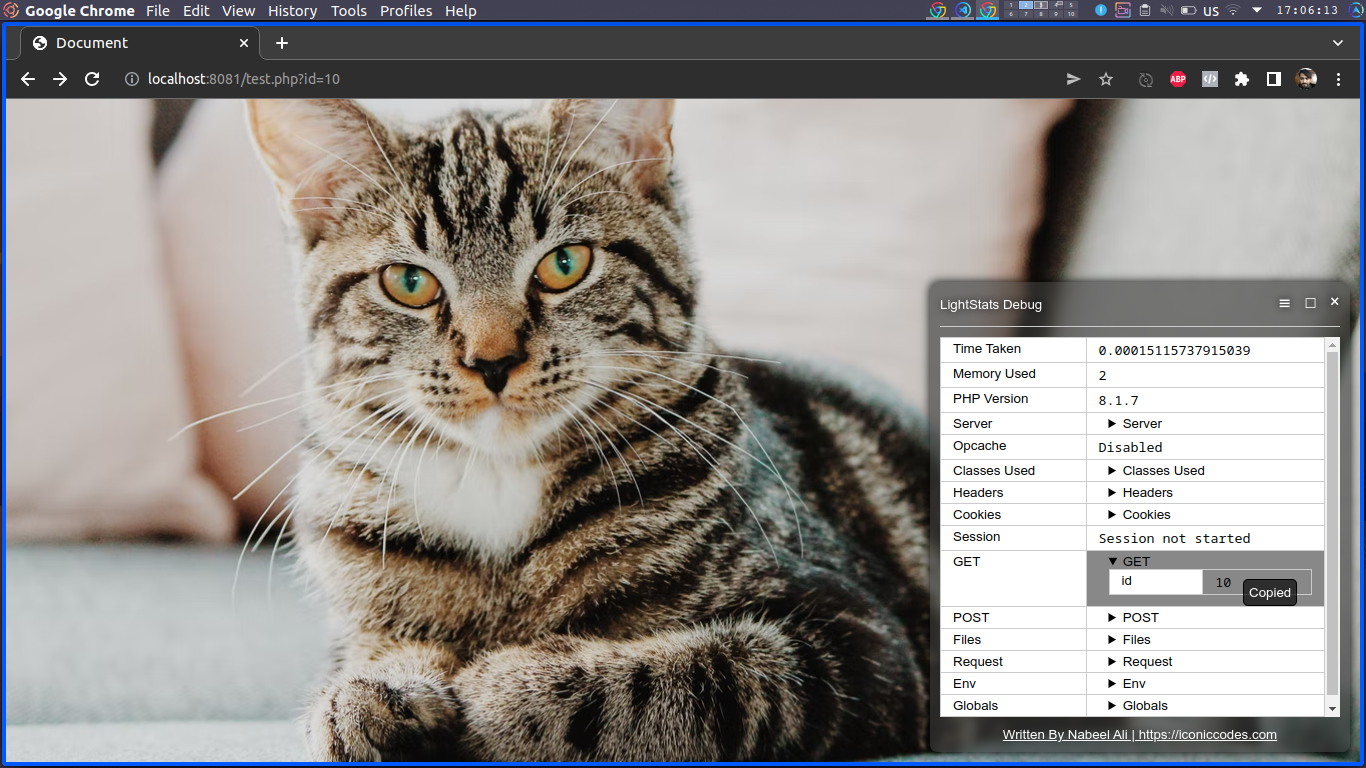
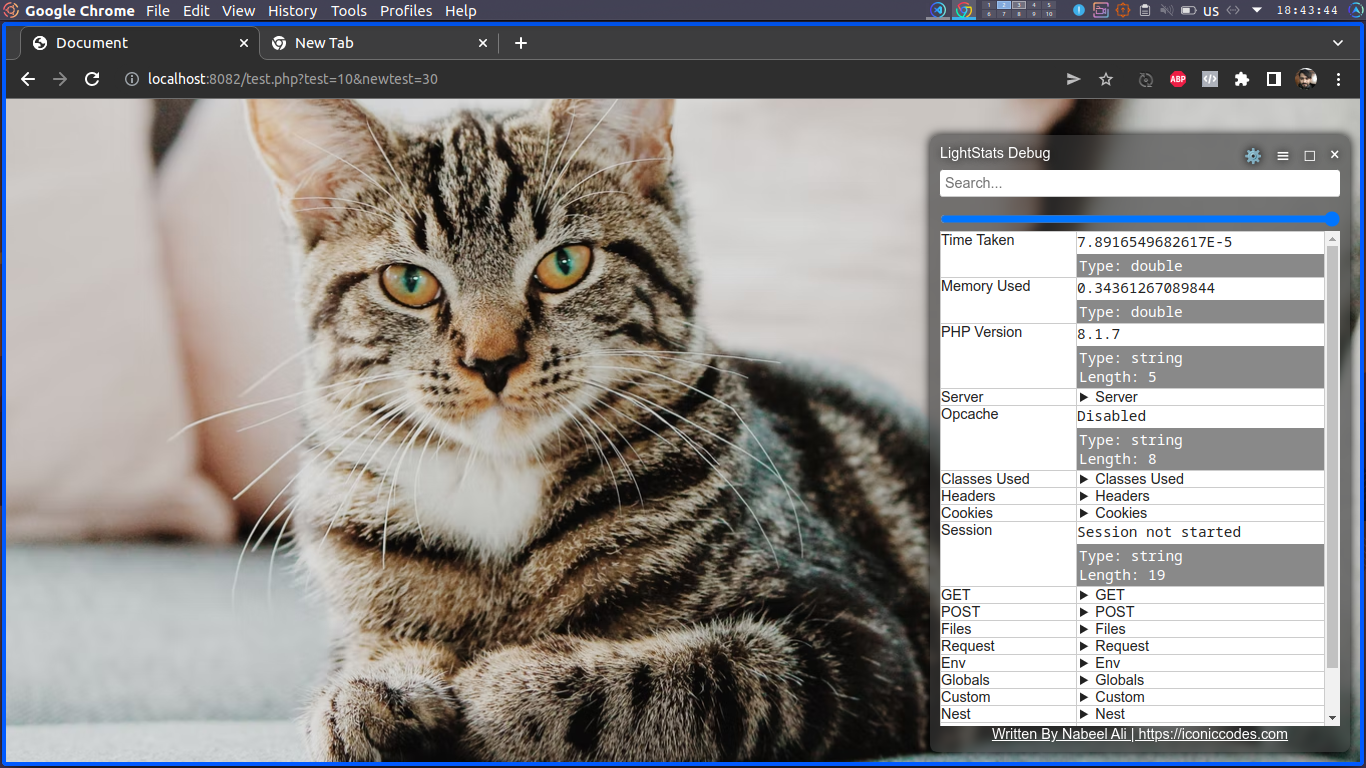
Added Search and Transparency

diff --git a/src/view.html b/src/view.html
@@ -1,14 +1,55 @@
 <div id="ls__container">
-    <div id="ls__header"><span>LightStats Debug</span>
-        <div class="ls__controls"><span title="Toggle Types" class="ls__control" id="ls__types__toggle">⚙ </span><span title="Minimize" class="ls__control" id="ls__control__toggle">☰ </span><span title="FullScreen" class="ls__control" id="ls__control__max">☐ </span><span title="Close" class="ls__control" id="ls__control__close">&times;</span></div>
+    <div id="ls__header">
+        <div class="ls__header_row" id="ls__header_first_row">
+            <div>LightStats Debug</div>
+            <div class="ls__controls"><span title="Toggle Types" class="ls__control" id="ls__types__toggle">⚙ </span><span title="Minimize" class="ls__control" id="ls__control__toggle">☰ </span><span title="FullScreen" class="ls__control" id="ls__control__max">☐ </span><span title="Close" class="ls__control" id="ls__control__close">&times;</span></div>
+        </div>
+        <div class="ls__header_row">
+            <input type="text" id="ls__searchbar__input" placeholder="Search...">
+        </div>
+        <!-- range for setting transparency 5 to 100 -->
+        <div class="ls__header_row">
+            <input type="range"  min="5" max="100" value="100" id="ls__transparency__range">
+        </div>
+        
     </div>
-    <!-- <div class="ls__separator"></div> -->
+
     <div id="ls__body">
         <table id="ls__table"> <?php echo $html ?> </table>
+
     </div>
     <div id="ls__footer"><a href="https://iconiccodes.com">Written By Nabeel Ali | https://iconiccodes.com</a></div>
 </div>
+
 <style>
+    .ls__header_row {
+        display: flex;
+        flex: 1;
+        width: 100%;
+    }
+    
+    /* transparncy range */
+    #ls__transparency__range {
+        width: 100%;
+        margin-top: 10px;
+    }
+
+    #ls__searchbar__input {
+        width: 99.5%;
+        border: 0;
+        border-radius: 3px;
+        padding: 5px;
+        font-size: 14px;
+        outline: none;
+        border-bottom: 1px solid #ccc;
+        margin-bottom: 4px;
+    }
+
+    #ls__searchbar__input:focus {
+        border-bottom: 1px solid #000;
+        box-shadow: 0 1px 1px rgba(0, 0, 0, 0.075) inset, 0 0 8px rgba(102, 175, 233, 0.6);
+    }
+
     .ls__type__label {
         background-color: #22222288;
         color: #fff;
@@ -21,7 +62,9 @@
     #ls__container * {
         font-size: 0.9rem;
     }
+
     #ls__container {
+        color: #222;
         display: flex;
         flex-direction: column;
         font-size: .8rem;
@@ -31,18 +74,20 @@
         right: 10px;
         border-radius: 8px;
         width: 400px;
-        height: 450px;
+        height: auto;
         background-color: #39393999;
         backdrop-filter: blur(4px);
         padding: 10px;
         box-shadow: 0 0 10px #000;
         z-index: 99999;
-        min-height: 60px
+        min-height: 60px;
+        max-height: 90vh;
     }
 
     #ls__container pre {
         margin-bottom: 0;
     }
+
     .ls__control {
         margin-left: 10px;
         cursor: pointer
@@ -74,12 +119,17 @@
         text-shadow: 0 0 10px #000;
         color: #fff;
         align-items: center;
-        cursor: nwse-resize;
         margin-bottom: 4px;
+        flex-direction: column;
+
+    }
+
+    #ls__header_first_row {
+        cursor: nwse-resize;
+
     }
 
     #ls__footer {
-        margin-top: 10px;
         text-align: center
     }
 
@@ -109,6 +159,8 @@
     }
 </style>
 <script>
+    // fist row
+    var ls__header_first_row = document.getElementById('ls__header_first_row');
     var ls__container = document.getElementById("ls__container"),
         ls__control__toggle = document.getElementById("ls__control__toggle"),
         ls__control__max = document.getElementById("ls__control__max"),
@@ -116,16 +168,22 @@
         ls__body = document.getElementById("ls__body"),
         ls__table = document.getElementById("ls__table"),
         ls__types__label = document.getElementById("ls__types__toggle");
+        // ls searc
+        ls__searchbar__input = document.getElementById("ls__searchbar__input");
     ls__types__label.addEventListener("click", function() {
         for (var e = document.getElementsByClassName("ls__type__label"), t = 0; t < e.length; t++) e[t].style.display = "none" == e[t].style.display ? "block" : "none"
-    }), ls__control__toggle.addEventListener("click", function() {
+    });
+
+    ls__control__toggle.addEventListener("click", function() {
+        ls__searchbar__input.style.display = "none" == ls__searchbar__input.style.display ? "block" : "none";
         ls__container.style.bottom = "10px;", ls__container.style.right = "10px;", document.fullscreenElement && document.exitFullscreen(), "none" == ls__body.style.display ? ls__body.style.display = "block" : (ls__body.style.display = "none", ls__container.style.height = "auto")
     }), ls__control__max.addEventListener("click", function() {
         ls__body.style.display = "block", ls__container.requestFullscreen ? document.fullscreenElement ? document.exitFullscreen() : ls__container.requestFullscreen() : ls__container.webkitRequestFullscreen ? document.webkitFullscreenElement ? document.webkitExitFullscreen() : ls__container.webkitRequestFullscreen() : ls__container.mozRequestFullScreen ? document.mozFullScreenElement ? document.mozCancelFullScreen() : ls__container.mozRequestFullScreen() : ls__container.msRequestFullscreen && (document.msFullscreenElement ? document.msExitFullscreen() : ls__container.msRequestFullscreen())
     }), ls__control__close.addEventListener("click", function() {
         ls__container.remove()
     });
-    var ls__container_resize = document.getElementById("ls__header"),
+
+    var ls__container_resize = document.getElementById("ls__header_first_row"),
         ls__container_resize_x = 0,
         ls__container_resize_y = 0,
         ls__container_resize_width = 0,
@@ -148,4 +206,34 @@
             document.body.removeChild(n)
         }, 1e3)
     })
+
+    // on change of #ls__searchbar__input filter table data
+    // enable searching in detail tags too. and if element in detail tag, expand it
+
+    ls__searchbar__input.addEventListener("input", function() {
+        var search_term = ls__searchbar__input.value.toLowerCase();
+        var tr = document.getElementsByTagName("tr");
+        for (var i = 0; i < tr.length; i++) {
+            var td = tr[i].getElementsByTagName("td");
+            for (var j = 0; j < td.length; j++) {
+                var txtValue = td[j].textContent || td[j].innerText;
+                if (txtValue.toLowerCase().indexOf(search_term) > -1) {
+                    tr[i].style.display = "";
+                    break;
+                } else {
+                    tr[i].style.display = "none";
+                }
+            }
+        }
+    });
+
+    var ls__transparency__range = document.getElementById("ls__transparency__range");
+
+    ls__transparency__range.addEventListener("input", function() {
+        var opacity = ls__transparency__range.value;
+        ls__container.style.opacity = opacity / 100;
+    });
+
+
+    
 </script>

diff --git a/src/view.php b/src/view.php
@@ -1,0 +1,1 @@
+<div id="ls__container"><div id="ls__header"><div class="ls__header_row" id="ls__header_first_row"><div>LightStats Debug</div><div class="ls__controls"><span title="Toggle Types" class="ls__control" id="ls__types__toggle">⚙ </span><span title="Minimize" class="ls__control" id="ls__control__toggle">☰ </span><span title="FullScreen" class="ls__control" id="ls__control__max">☐ </span><span title="Close" class="ls__control" id="ls__control__close">&times;</span></div></div><div class="ls__header_row"><input type="text" id="ls__searchbar__input" placeholder="Search..."></div><!-- range for setting transparency 5 to 100 --><div class="ls__header_row"><input type="range" min="5" max="100" value="100" id="ls__transparency__range"></div></div><div id="ls__body"><table id="ls__table"> <?php echo $html ?> </table></div><div id="ls__footer"><a href="https://iconiccodes.com">Written By Nabeel Ali | https://iconiccodes.com</a></div></div><style>.ls__header_row{display:flex;flex:1;width:100%}#ls__transparency__range{width:100%;margin-top:10px}#ls__searchbar__input{width:99.5%;border:0;border-radius:3px;padding:5px;font-size:14px;outline:0;border-bottom:1px solid #ccc;margin-bottom:4px}#ls__searchbar__input:focus{border-bottom:1px solid #000;box-shadow:0 1px 1px rgba(0,0,0,.075) inset,0 0 8px rgba(102,175,233,.6)}.ls__type__label{background-color:#22222288;color:#fff;padding:2px;font-size:.8rem;margin-top:3px;font-family:monospace}#ls__container *{font-size:.9rem}#ls__container{color:#222;display:flex;flex-direction:column;font-size:.8rem;font-family:sans-serif;position:fixed;bottom:10px;right:10px;border-radius:8px;width:400px;height:auto;background-color:#39393999;backdrop-filter:blur(4px);padding:10px;box-shadow:0 0 10px #000;z-index:99999;min-height:60px;max-height:90vh}#ls__container pre{margin-bottom:0}.ls__control{margin-left:10px;cursor:pointer}#ls__control__close{font-size:18px}.ls__controls{margin-left:auto}#ls__body{flex:1;overflow:auto;background-color:#fff}.ls__separator{height:1px;background-color:#ccc;margin:10px 0}#ls__header{width:100%;display:flex;text-shadow:0 0 10px #000;color:#fff;align-items:center;margin-bottom:4px;flex-direction:column}#ls__header_first_row{cursor:nwse-resize}#ls__footer{text-align:center}#ls__footer a{color:#fff}#ls__container table{border-collapse:collapse;width:100%;border-collapse:collapse;border-spacing:0;font-family:sans-serif;background-color:#fff;margin-bottom:8px}#ls__table td{border:1px solid #ccc;cursor:pointer;vertical-align:top}#ls__table td:hover{background-color:#888}</style><script>var ls__header_first_row=document.getElementById("ls__header_first_row"),ls__container=document.getElementById("ls__container"),ls__control__toggle=document.getElementById("ls__control__toggle"),ls__control__max=document.getElementById("ls__control__max"),ls__control__close=document.getElementById("ls__control__close"),ls__body=document.getElementById("ls__body"),ls__table=document.getElementById("ls__table"),ls__types__label=document.getElementById("ls__types__toggle");ls__searchbar__input=document.getElementById("ls__searchbar__input"),ls__types__label.addEventListener("click",function(){for(var e=document.getElementsByClassName("ls__type__label"),t=0;t<e.length;t++)e[t].style.display="none"==e[t].style.display?"block":"none"}),ls__control__toggle.addEventListener("click",function(){ls__searchbar__input.style.display="none"==ls__searchbar__input.style.display?"block":"none",ls__container.style.bottom="10px;",ls__container.style.right="10px;",document.fullscreenElement&&document.exitFullscreen(),"none"==ls__body.style.display?ls__body.style.display="block":(ls__body.style.display="none",ls__container.style.height="auto")}),ls__control__max.addEventListener("click",function(){ls__body.style.display="block",ls__container.requestFullscreen?document.fullscreenElement?document.exitFullscreen():ls__container.requestFullscreen():ls__container.webkitRequestFullscreen?document.webkitFullscreenElement?document.webkitExitFullscreen():ls__container.webkitRequestFullscreen():ls__container.mozRequestFullScreen?document.mozFullScreenElement?document.mozCancelFullScreen():ls__container.mozRequestFullScreen():ls__container.msRequestFullscreen&&(document.msFullscreenElement?document.msExitFullscreen():ls__container.msRequestFullscreen())}),ls__control__close.addEventListener("click",function(){ls__container.remove()});var ls__container_resize=document.getElementById("ls__header_first_row"),ls__container_resize_x=0,ls__container_resize_y=0,ls__container_resize_width=0,ls__container_resize_height=0;ls__container_resize.addEventListener("mousedown",function(e){ls__container_resize_x=e.clientX,ls__container_resize_y=e.clientY,ls__container_resize_width=ls__container.offsetWidth,ls__container_resize_height=ls__container.offsetHeight}),document.addEventListener("mousemove",function(e){if(ls__container_resize_x&&ls__container_resize_y){var t=e.clientX-ls__container_resize_x,n=e.clientY-ls__container_resize_y;t*=-1,n*=-1,ls__container.style.width=ls__container_resize_width+t+"px",ls__container.style.height=ls__container_resize_height+n+"px",ls__body.style.display="block"}}),document.addEventListener("mouseup",function(e){ls__container_resize_x=0,ls__container_resize_y=0,ls__container_resize_width=0,ls__container_resize_height=0}),ls__table.addEventListener("dblclick",function(e){var t=e.target.innerText;navigator.clipboard.writeText(t),console.log("Copied: ",t);var n=document.createElement("div");n.style.position="absolute",n.style.top=e.clientY+"px",n.style.left=e.clientX+"px",n.style.backgroundColor="#fff",n.style.padding="5px",n.style.borderRadius="5px",n.style.fontSize="10pt",n.style.fontFamily="sans-serif",n.style.color="#fff",n.style.textAlign="center",n.style.backgroundColor="#000000aa",n.style.border="1px solid #000",n.innerText="Copied",n.style.zIndex=199999,document.body.appendChild(n),setTimeout(function(){document.body.removeChild(n)},1e3)}),ls__searchbar__input.addEventListener("input",function(){for(var e=ls__searchbar__input.value.toLowerCase(),t=document.getElementsByTagName("tr"),n=0;n<t.length;n++)for(var _=t[n].getElementsByTagName("td"),l=0;l<_.length;l++){var s=_[l].textContent||_[l].innerText;if(-1<s.toLowerCase().indexOf(e)){t[n].style.display="";break}t[n].style.display="none"}});var ls__transparency__range=document.getElementById("ls__transparency__range");ls__transparency__range.addEventListener("input",function(){var e=ls__transparency__range.value;ls__container.style.opacity=e/100})</script>

diff --git a/src/LightStats.php b/src/LightStats.php
@@ -80,7 +80,7 @@ class LightStats {
             $html .= '</td></tr>';
         }
         
-        include __DIR__ . "/view.min.php";
+        include __DIR__ . "/view.php";
     }
 
     public function getStatsAsDetailsTag($stats) {

diff --git a/README.md b/README.md
@@ -2,7 +2,7 @@
 
 # LightStats
 
-An easy to use request inspector, debugger for PHP.
+An easy to use request inspector, debugger for PHP with ability to search.
 
 ![LightStats Screenshot](./docs/ls.png)
 
@@ -21,8 +21,11 @@ Email: [mail2nabeelali@gmail.com](mailto:mail2nabeelali@gmail.com)
 * Fullscreen view.
 * Size and Type info on hover.
 * Toggle Types
+* Search
+* Change Transparency
 
 ![Fullscreen Nested](./docs/nested.png)
+![Fullscreen Nested](./docs/t.png)
 
 
 
